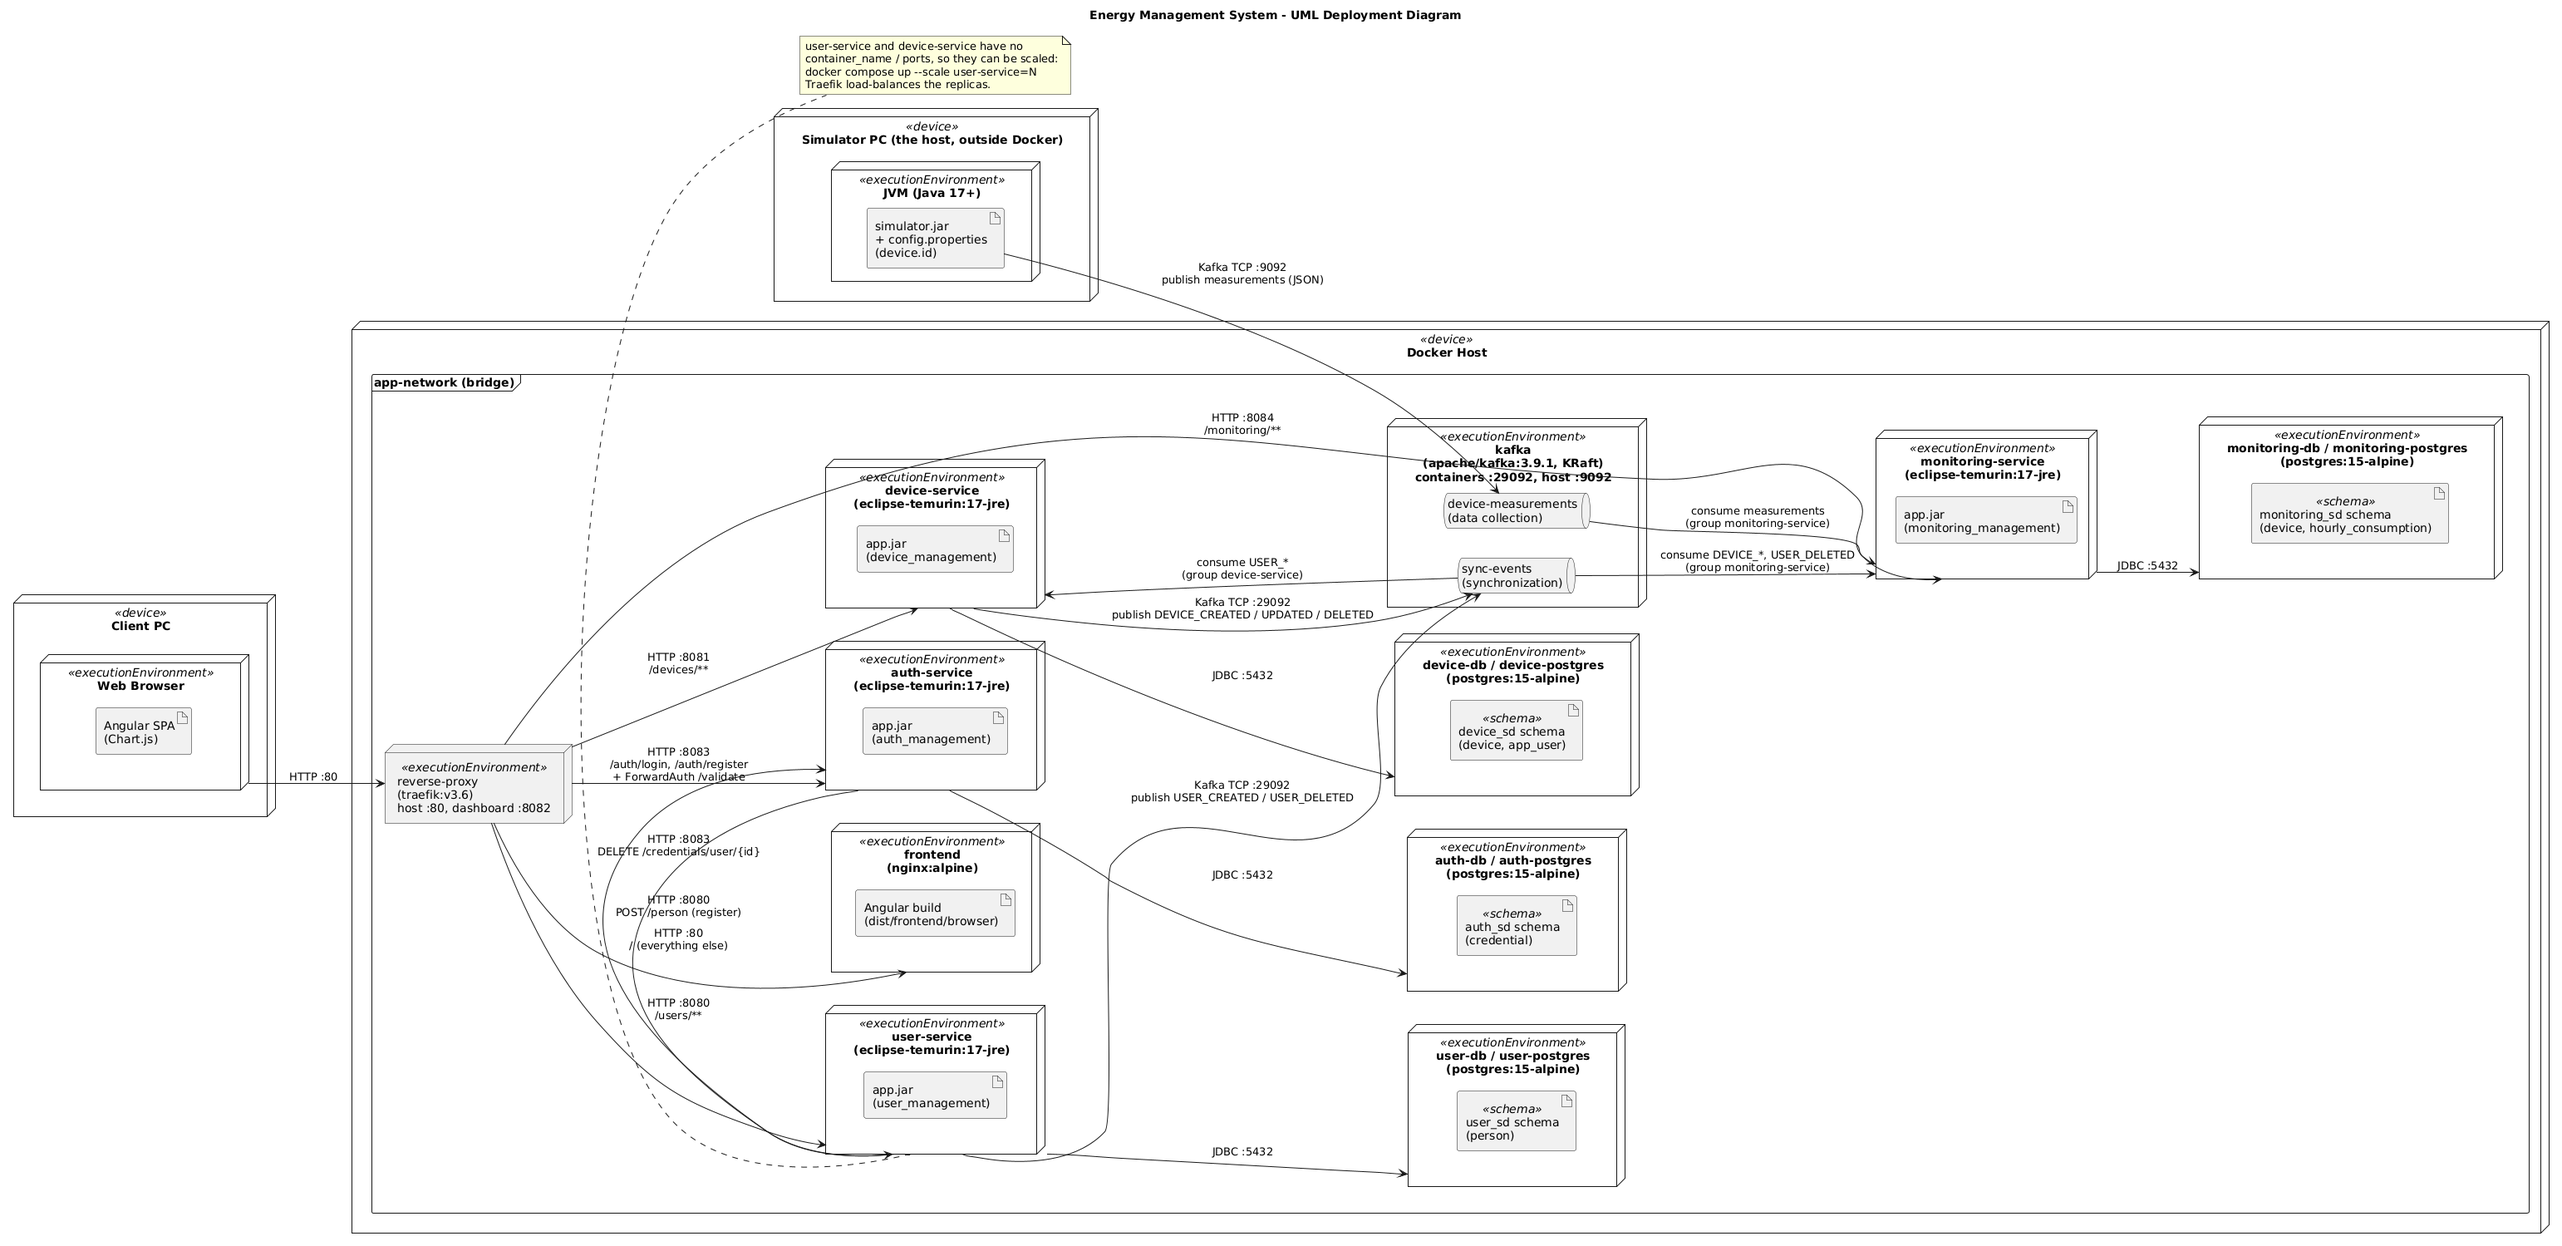
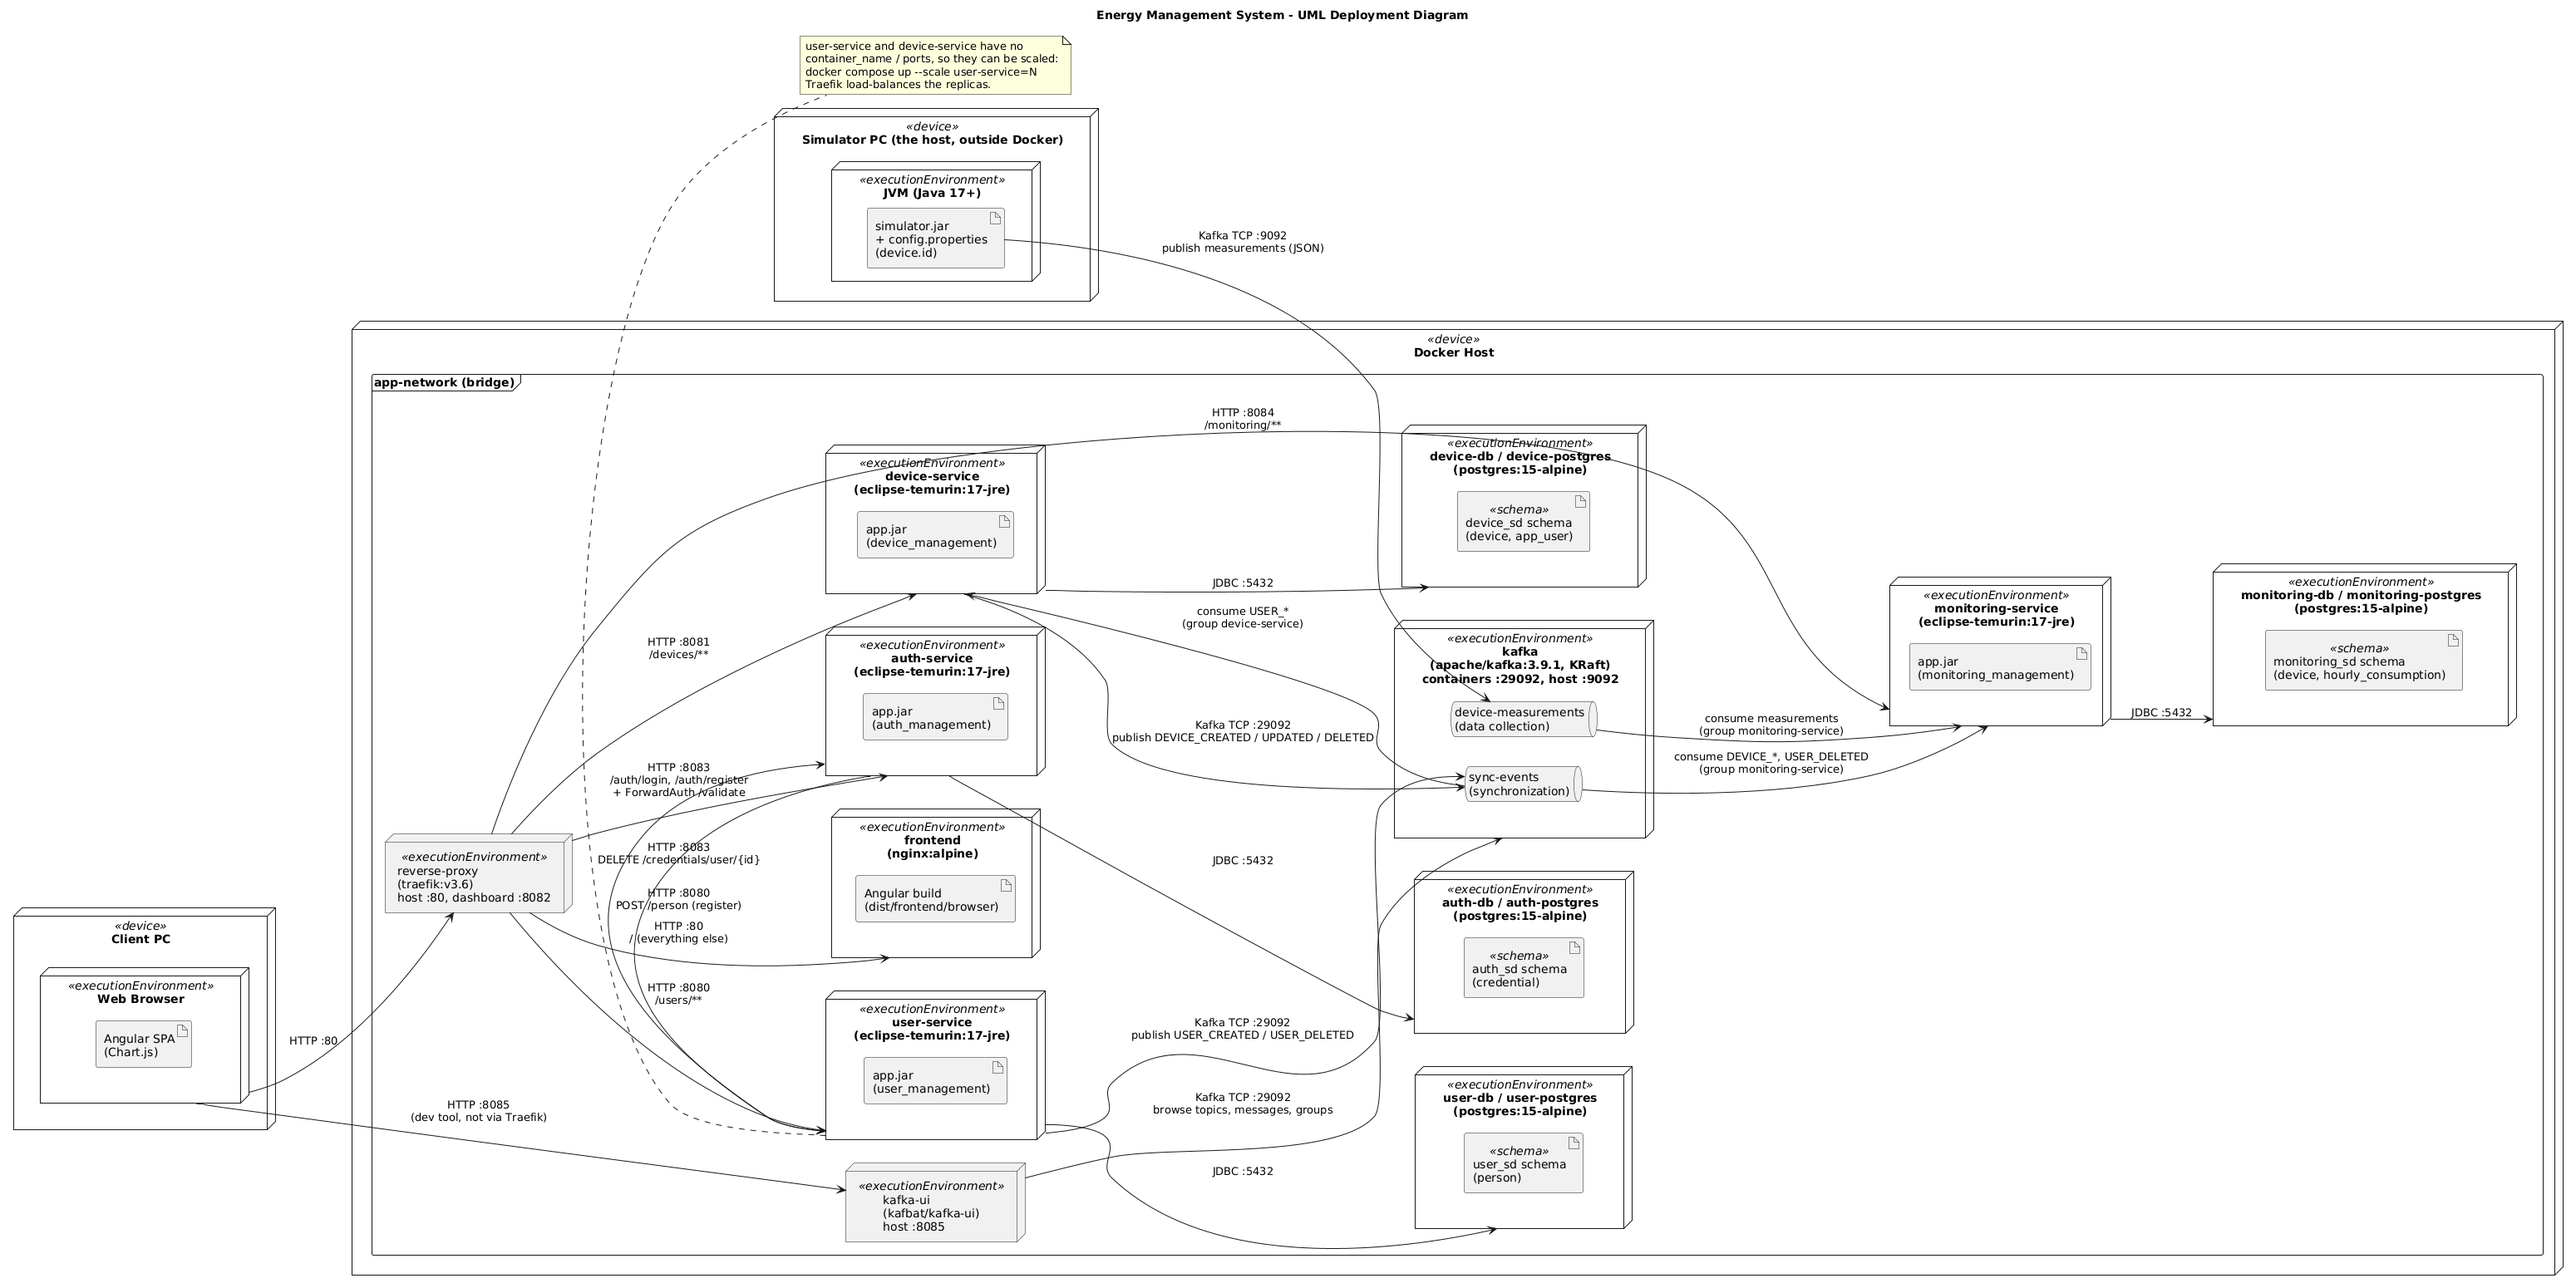
Add Kafka UI (kafbat/kafka-ui) on localhost:8085
- docker-compose: kafka-ui container on app-network, connects to kafka:29092,
  starts after Kafka is healthy, not routed through Traefik
- README: URL and port 8085
- deployment diagram: kafka-ui node + regenerated PNG
- A2_NOTES: section 9, how to use Kafka UI at the evaluation

diff --git a/docs/A2_NOTES.md b/docs/A2_NOTES.md
@@ -466,3 +466,25 @@ Clasificări uzuale:
 - *Cum arată mesajul?* `{"timestamp":"2026-11-22T18:40:00","device_id":"…","measurement_value":0.1234}`. JSON trimis ca text,
   cu cheia = `device_id`.
 - *De ce 24 de valori și nu doar orele cu date?* Ca graficul să aibă mereu axa OX completă (0–23). Orele fără date au 0.
+
+## 9. Kafka UI (vizualizarea Kafka în browser)
+
+**Ce este:** o aplicație web (`kafbat/kafka-ui`, containerul `kafka-ui`) care se conectează la broker prin listenerul
+intern `kafka:29092` și arată tot ce e în Kafka: topicuri, mesaje, partiții, offseturi și consumer groups.
+Este doar un instrument de dezvoltare/demo: nu trece prin Traefik și aplicația nu depinde de el.
+
+**Cum îl deschid:** `docker compose up -d` îl pornește odată cu restul (după ce Kafka e healthy), apoi
+http://localhost:8085. Clusterul se numește `local`.
+
+**Ce arăt la evaluare:**
+1. **Topics** – apar `device-measurements` (date de la simulator) și `sync-events` (sincronizare utilizatori/dispozitive).
+   Topicurile interne (`__consumer_offsets`) se văd dacă bifez *Show Internal Topics*.
+2. **Mesaje** – intru pe `device-measurements` → tab-ul **Messages**: văd fiecare mesaj JSON, cheia (= `device_id`),
+   partiția, offsetul și ora. Pornesc simulatorul și dau refresh: apar mesaje noi. La fel pe `sync-events`
+   după ce creez un utilizator sau un dispozitiv (`USER_CREATED`, `DEVICE_CREATED`).
+3. **Partiții și offseturi** – în tab-ul **Overview** al topicului: numărul de partiții, iar pentru fiecare partiție
+   primul și ultimul offset (câte mesaje are).
+4. **Consumer groups** – meniul **Consumers**: grupurile `monitoring-service` și `device-service`, starea `STABLE`,
+   membrii activi și, pe fiecare partiție, offsetul confirmat și **lag**-ul (câte mesaje nu au fost încă citite).
+   Demo util: opresc `monitoring-service`, trimit mesaje cu simulatorul → lag-ul crește; îl repornesc → lag-ul
+   revine la 0, adică nu s-a pierdut nimic.

diff --git a/README.md b/README.md
@@ -176,6 +176,7 @@ Device d1eebc99-9c0b-4ef8-bb6d-6bb9bd380a01, hour 2026-11-21T00:00: total is now
 | Swagger UI – auth-service | http://localhost/auth/swagger-ui |
 | OpenAPI JSON | http://localhost/users/v3/api-docs, http://localhost/devices/v3/api-docs, http://localhost/monitoring/v3/api-docs, http://localhost/auth/v3/api-docs |
 | Kafka (for the simulator) | `localhost:9092` |
+| Kafka UI (topics, messages, consumer groups) | http://localhost:8085 |
 
 Swagger is public (no token). To try the protected endpoints: call `POST /login` in the auth-service Swagger
 (or `curl`, see below), copy the `token`, click **Authorize** in the user/device/monitoring Swagger and paste only
@@ -274,4 +275,5 @@ docker compose logs -f user-service device-service monitoring-service | grep -E 
 | 80 | Traefik (app entry point) |
 | 8082 | Traefik dashboard |
 | 9092 | Kafka, for the simulator on the host (containers use `kafka:29092`) |
+| 8085 | Kafka UI (`kafbat/kafka-ui`, connects to `kafka:29092`) |
 | 5432 / 5433 / 5434 / 5435 | user-db / device-db / auth-db / monitoring-db (for local inspection) |
